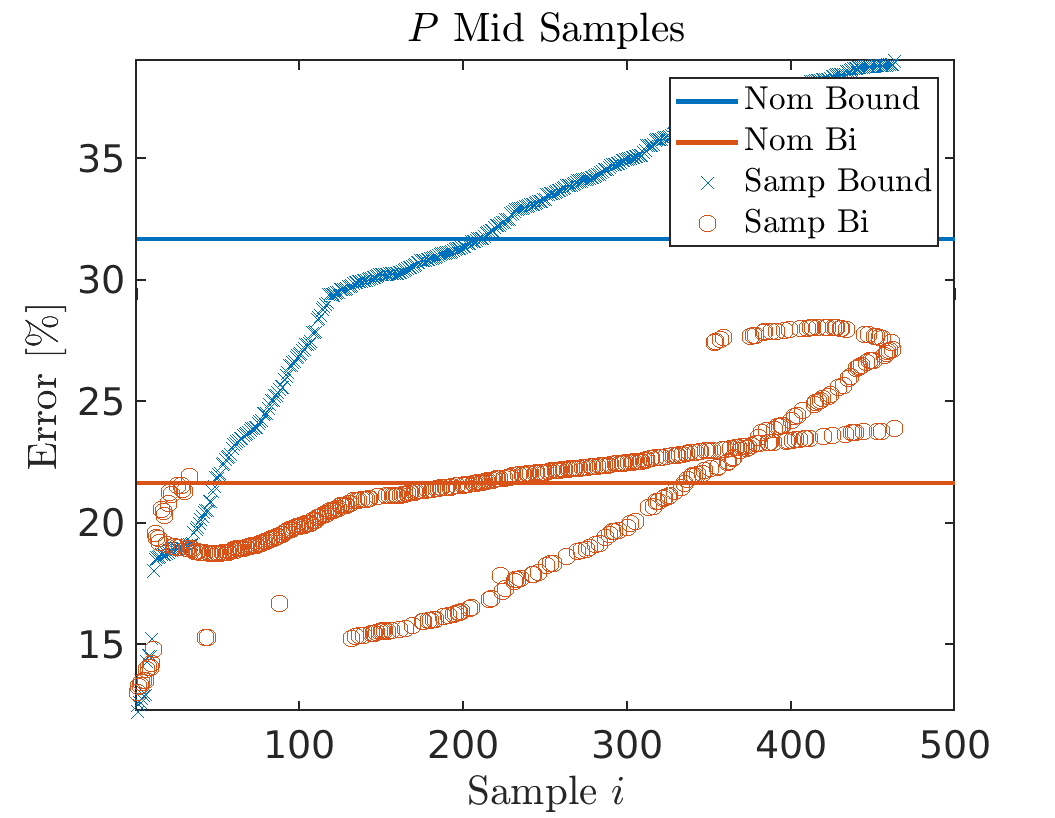
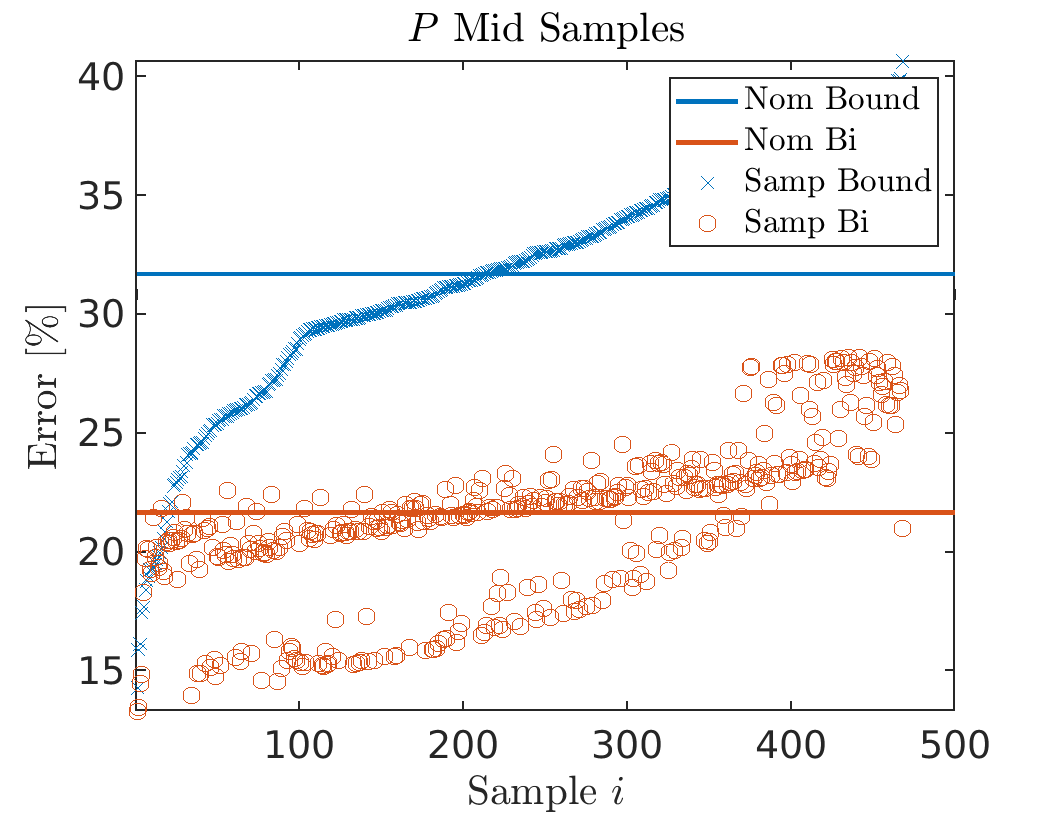
nu linear done properly

diff --git a/Lid_driven_cavity/LDC_rand_sample_plot.m b/Lid_driven_cavity/LDC_rand_sample_plot.m
@@ -39,7 +39,7 @@ c6 = [0.3010, 0.7450, 0.9330];
 %%% Random search 
 %%%%%%%%%%%%%%%%%%%%%%%%%%%%%%%%%%%%%%%%%%%%%%%%%%%%%%%%%%%%%%%%%%%%%%%%%%%
 
-load('LDC_design/rand_nu_linear')
+load('LDC_design/rand_nu_linear_2')
 
 load('LDC_design/nominal_all_qoi_2')
 % err_bi and error_bound nominal values - plot these. 

diff --git a/Lid_driven_cavity/LDC_parametric_design.m b/Lid_driven_cavity/LDC_parametric_design.m
@@ -511,7 +511,7 @@ xi_rand = rand(n_samps,3);
 
 u_rand = u_lim(1)+ (u_lim(2)-u_lim(1)).*xi_rand(:,1); 
 nu_rand_0 = nu_lim(1)+ (nu_lim(2)-nu_lim(1)).*xi_rand(:,2); 
-nu_rand_1 = nu_lim(1)+ (nu_lim(2)-nu_lim(1)).*xi_rand(:,2); 
+nu_rand_1 = nu_lim(1)+ (nu_lim(2)-nu_lim(1)).*xi_rand(:,3); 
 
 % n_samps = 2; 
 
